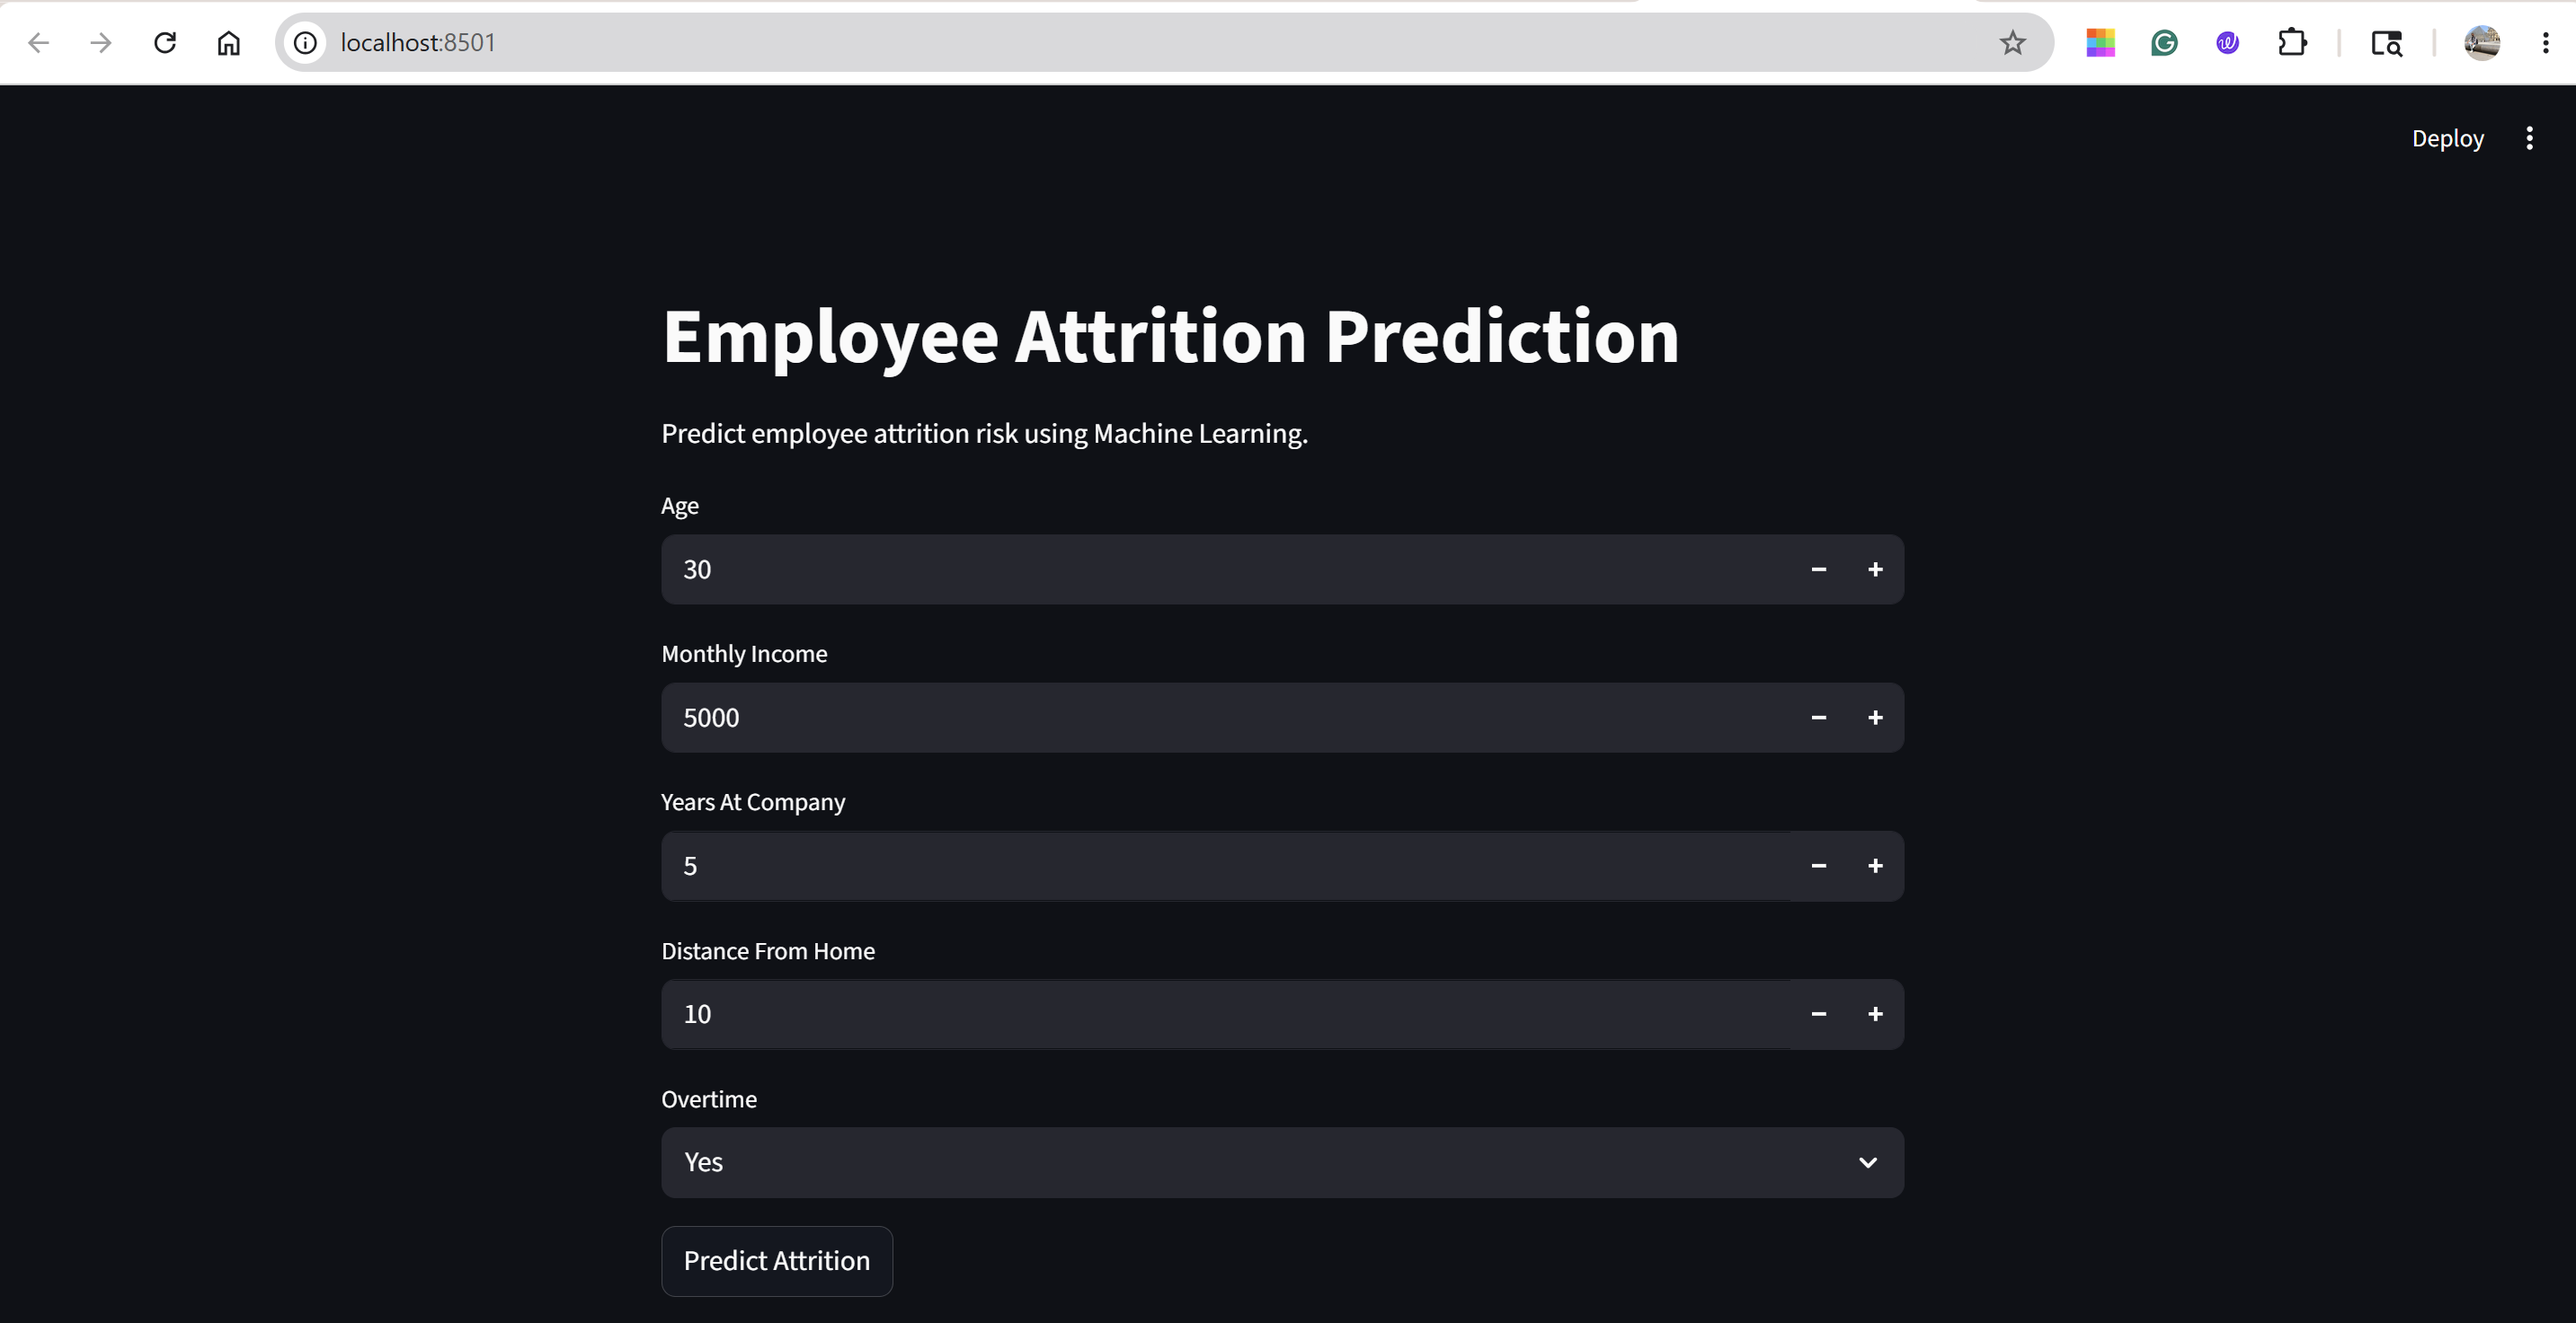
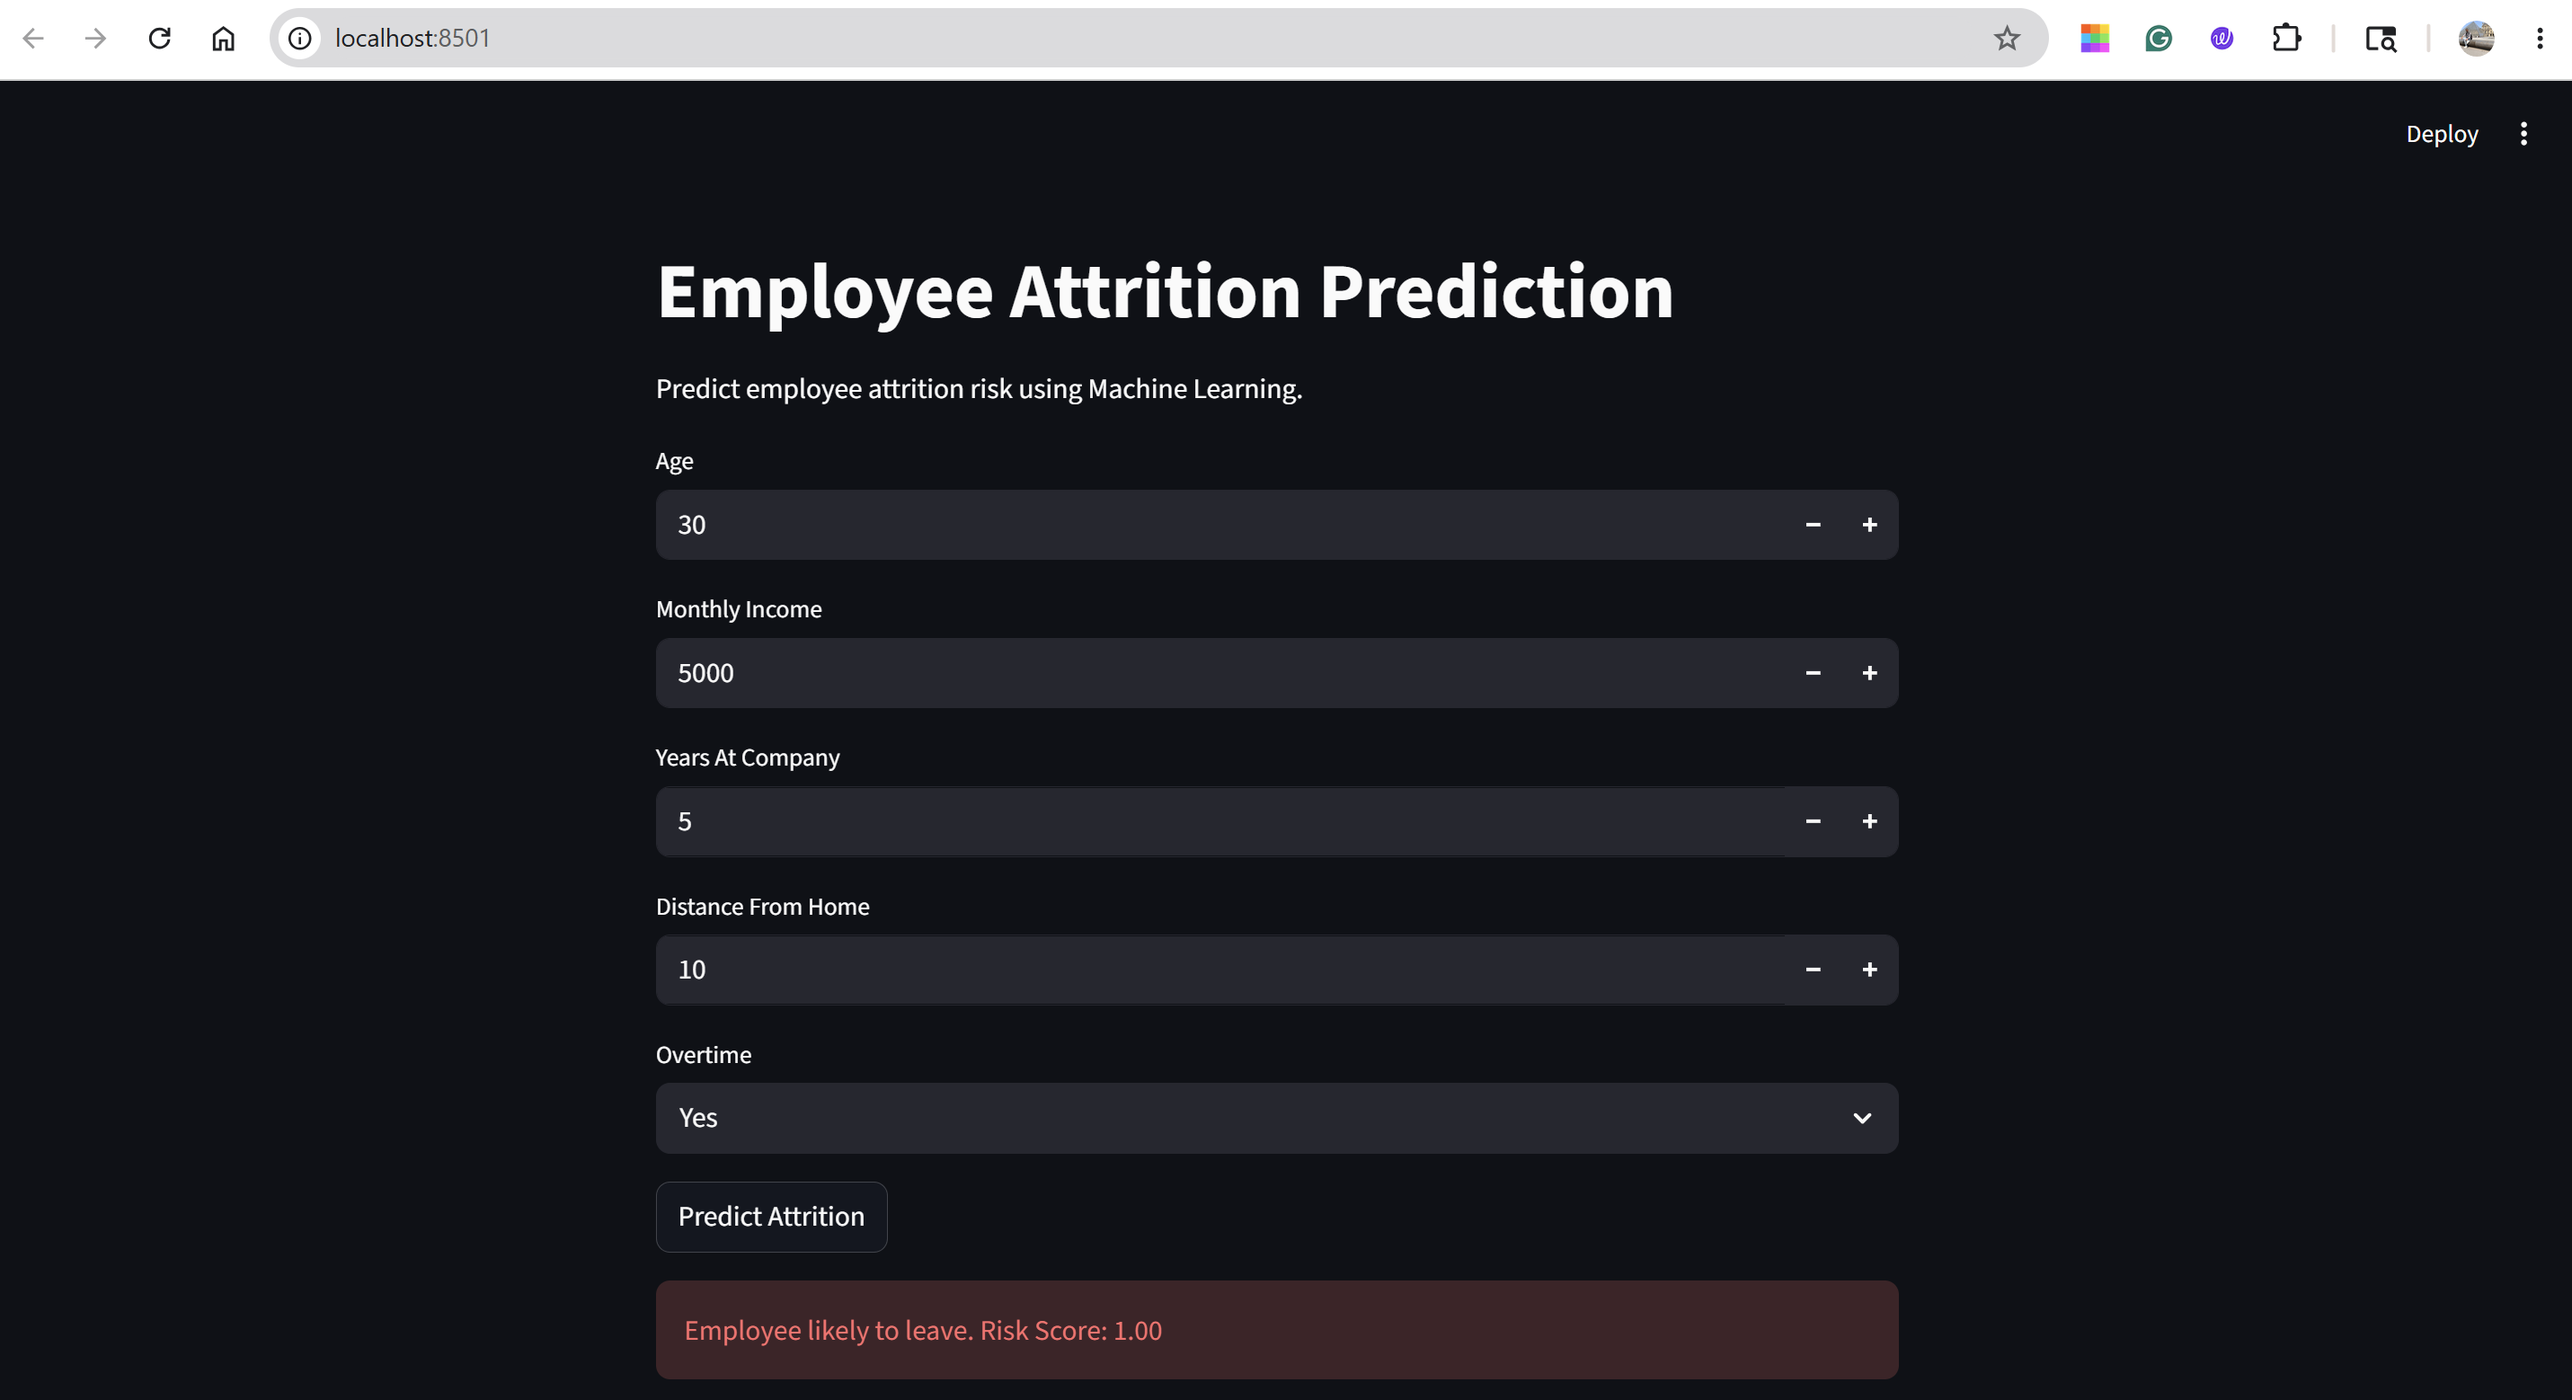
Built Streamlit attrition prediction app (updated)

Changed region(s): [[0.2488, 0.3123, 0.7463, 0.9993], [0.0, 0.0, 1.0, 0.1249], [0.2488, 0.1874, 0.653, 0.2811]]

diff --git a/app/streamlit_app.py b/app/streamlit_app.py
@@ -46,13 +46,54 @@ overtime_yes = 1 if overtime == "Yes" else 0
 # Prediction button
 if st.button("Predict Attrition"):
 
-    input_data = pd.DataFrame({
-        'Age': [age],
-        'MonthlyIncome': [monthly_income],
-        'YearsAtCompany': [years_at_company],
-        'DistanceFromHome': [distance_from_home],
-        'OverTime_Yes': [overtime_yes]
-    })
+    input_dict = {
+    'Age': age,
+    'DailyRate': 0,
+    'DistanceFromHome': distance_from_home,
+    'Education': 0,
+    'EmployeeCount': 1,
+    'EnvironmentSatisfaction': 0,
+    'HourlyRate': 0,
+    'JobInvolvement': 0,
+    'JobLevel': 0,
+    'JobSatisfaction': 0,
+    'MonthlyIncome': monthly_income,
+    'MonthlyRate': 0,
+    'NumCompaniesWorked': 0,
+    'PercentSalaryHike': 0,
+    'PerformanceRating': 0,
+    'RelationshipSatisfaction': 0,
+    'StandardHours': 80,
+    'Shift': 0,
+    'TotalWorkingYears': 0,
+    'TrainingTimesLastYear': 0,
+    'WorkLifeBalance': 0,
+    'YearsAtCompany': years_at_company,
+    'YearsInCurrentRole': 0,
+    'YearsSinceLastPromotion': 0,
+    'YearsWithCurrManager': 0,
+
+    # Encoded categorical columns
+    'BusinessTravel_Travel_Frequently': 0,
+    'BusinessTravel_Travel_Rarely': 0,
+    'Department_Maternity': 0,
+    'Department_Neurology': 0,
+    'EducationField_Life Sciences': 0,
+    'EducationField_Marketing': 0,
+    'EducationField_Medical': 0,
+    'EducationField_Other': 0,
+    'EducationField_Technical Degree': 0,
+    'Gender_Male': 0,
+    'JobRole_Administrative': 0,
+    'JobRole_Nurse': 0,
+    'JobRole_Other': 0,
+    'JobRole_Therapist': 0,
+    'MaritalStatus_Married': 0,
+    'MaritalStatus_Single': 0,
+    'OverTime_Yes': overtime_yes
+    }
+
+    input_data = pd.DataFrame([input_dict])
 
     prediction = model.predict(input_data)
 
